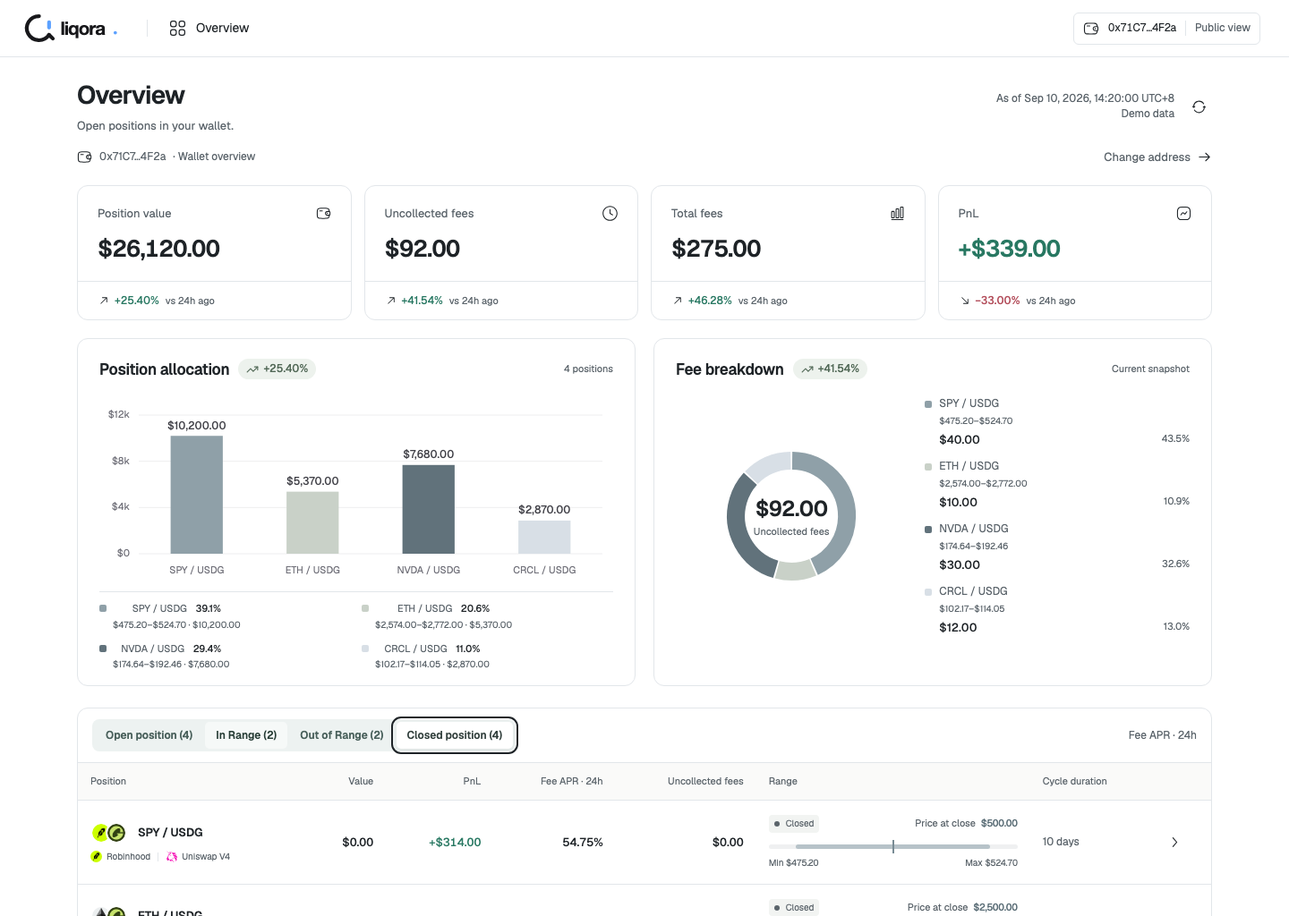
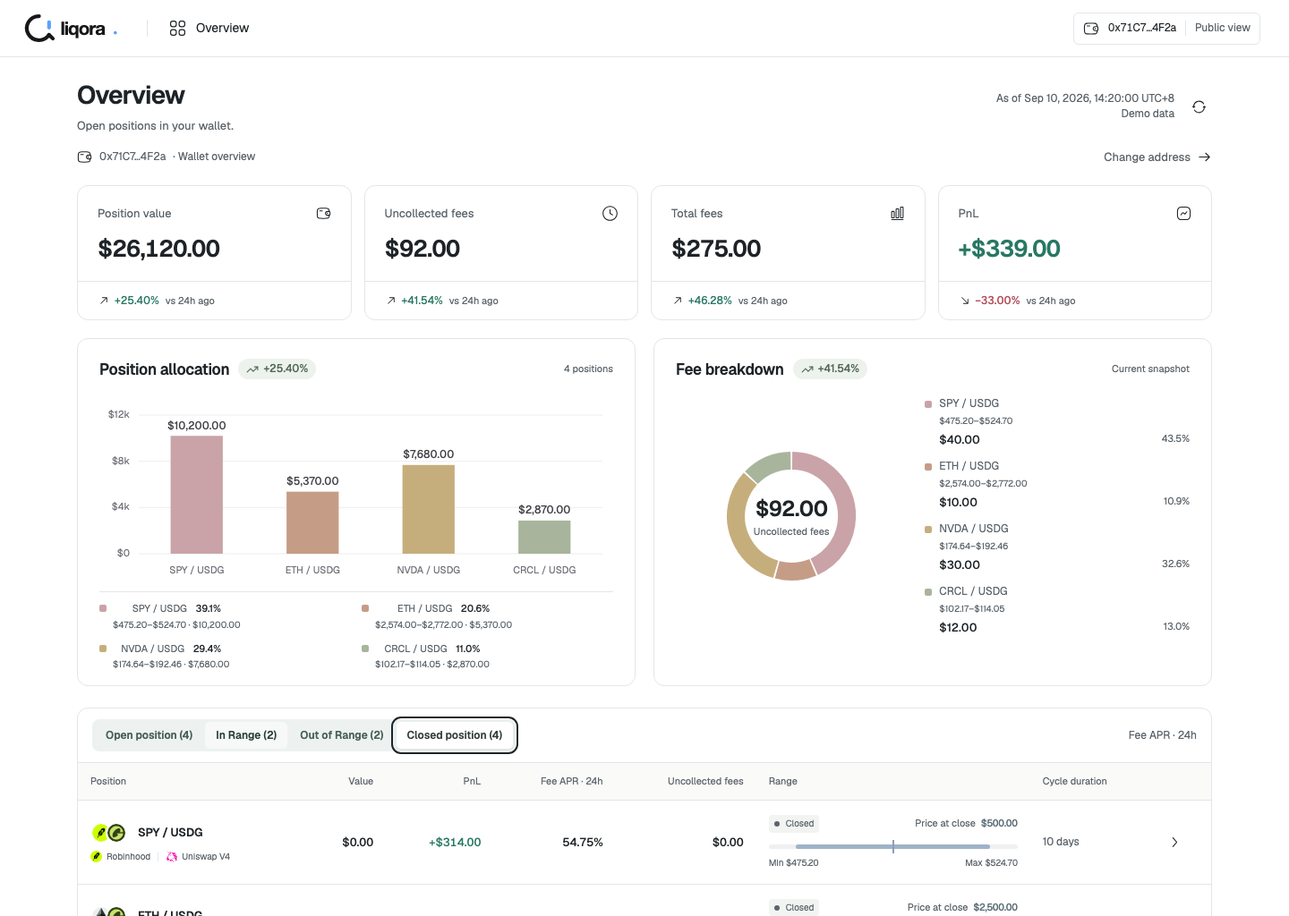
feat: replace LP APR trend with PnL chart and sync design palette

diff --git a/mockup/index.html b/mockup/index.html
@@ -7,7 +7,7 @@
 <link rel="icon" href="data:,">
 <style>
 @font-face{font-family:Geist;src:url('assets/geist-latin.woff2') format('woff2');font-weight:100 900;font-display:swap}
-:root{--bg:#fff;--paper:#fff;--shade:#f2f4f2;--ink:#1e2327;--muted:#5b646b;--line:#e2e6ea;--green:#287862;--mint:#edf7f2;--amber:#926427;--red:#b34e5b;--brand:#5ca1ff;--brand-ink:#5b6e77;--icon-ink:#1e2327;--chart-line:#8fa0a8;--chart-fill:#d8dfe6;--series-primary:#8fa0a8;--series-secondary:#c9d1c8;--series-third:#61727b;--series-fourth:#d8dfe6;--radius:12px;--sans:Geist,-apple-system,BlinkMacSystemFont,'Helvetica Neue',Arial,sans-serif;--num:var(--sans)}
+:root{--bg:#fff;--paper:#fff;--shade:#f2f4f2;--ink:#1e2327;--muted:#5b646b;--line:#e2e6ea;--green:#287862;--mint:#edf7f2;--amber:#926427;--red:#b34e5b;--brand:#5ca1ff;--brand-ink:#5b6e77;--icon-ink:#1e2327;--chart-line:#80a7a8;--chart-fill:#80a7a866;--series-primary:#c9a3a8;--series-secondary:#c59d87;--series-third:#c6ae7c;--series-fourth:#a8b59c;--radius:12px;--sans:Geist,-apple-system,BlinkMacSystemFont,'Helvetica Neue',Arial,sans-serif;--num:var(--sans)}
 *{box-sizing:border-box}body{margin:0;background:var(--bg);color:var(--ink);font:14px/1.4 var(--sans);min-width:1100px}button,input,select{font:inherit;color:inherit}button{cursor:pointer;border:0;background:none}button:disabled{cursor:not-allowed;opacity:.55}button,a,input,select,summary{outline-offset:4px}button:focus-visible,a:focus-visible,input:focus-visible,select:focus-visible,summary:focus-visible{outline:2px solid var(--ink)}a{color:inherit}h1,h2,h3,p{margin:0}h1{font-size:28px;line-height:1.3;letter-spacing:-.7px;font-weight:600}h2{font-size:20px;line-height:1.3;font-weight:600;letter-spacing:-.35px}h3{font-size:15px;font-weight:600}small,.small,.cell-sub{font-size:12px}.muted,.cell-sub{color:var(--muted)}.cell-sub{margin-top:5px;line-height:1.5}.num{font-variant-numeric:tabular-nums;letter-spacing:-.3px}.positive{color:var(--green)}.negative{color:var(--red)}.flex,.between{display:flex;align-items:center;gap:12px}.between{justify-content:space-between;gap:20px}.icon{width:17px;height:17px;fill:none;stroke:none;stroke-linecap:round;stroke-linejoin:round;vertical-align:middle;flex-shrink:0}.dot{width:6px;height:6px;border-radius:50%;background:currentColor;display:inline-block}.btn{display:inline-flex;align-items:center;justify-content:center;gap:8px;padding:9px 15px;min-height:40px;border:1px solid #b7bab6;background:var(--paper);border-radius:5px;font-weight:500;white-space:nowrap}.btn:hover{background:var(--shade);border-color:#858b87}.btn.primary{background:#303438;border-color:#303438;color:#fff}.btn.primary:hover{background:#44494c}.btn.quiet{background:transparent}.btn.small{font-size:12px;min-height:34px;padding:6px 11px}.text-btn{padding:6px 0;display:inline-flex;align-items:center;gap:7px;color:var(--muted);font-size:13px}.text-btn:hover{color:var(--ink);text-decoration:underline;text-underline-offset:4px}.tag{display:inline-flex;align-items:center;gap:7px;border-radius:4px;padding:4px 8px;font-size:12px;line-height:1.35;background:var(--shade);color:var(--muted);white-space:nowrap}.tag.green{color:var(--green);background:var(--mint)}.tag.amber{color:var(--amber);background:#efede8}.unit{font-size:12px;color:var(--muted);font-weight:400;letter-spacing:0;margin-left:6px}.badge-icon{color:var(--muted)}.badge-icon .icon{width:25px;height:25px}.rule{border:0;border-top:1px solid var(--line);margin:23px 0}.eyebrow{font-size:12px;color:var(--muted)}
 header{height:64px;border-bottom:1px solid var(--line);padding:0 32px 0 20px;display:flex;align-items:center;gap:28px;background:var(--bg)}.brand{display:flex;align-items:center;padding:0}.brand img{width:116px;height:39px;object-fit:contain}.breadcrumb{display:flex;align-items:center;gap:11px;border-left:1px solid var(--line);padding-left:24px;font-size:14px}.breadcrumb .icon{width:19px;height:19px}.header-right{margin-left:auto;display:flex;align-items:center;gap:24px}.network{display:flex;align-items:center;gap:7px;font-size:12px;color:var(--muted)}.wallet-btn{border:1px solid var(--line);border-radius:6px;min-height:36px;padding:6px 10px;display:flex;align-items:center;gap:10px;font-size:12px}.wallet-btn .icon{width:18px;height:18px}.wallet-btn #identity-label{color:var(--muted);border-left:1px solid var(--line);padding-left:10px}.logo{width:20px;height:20px;object-fit:contain;flex-shrink:0}.logo.round{border-radius:50%}.pair-logos{display:inline-flex;align-items:center;flex-shrink:0;padding-right:2px}.pair-logos .logo{width:24px;height:24px;border:2px solid white;border-radius:50%;background:white}.pair-logos .logo+.logo{margin-left:-7px}.pair-heading{display:flex;align-items:center;gap:10px}.pair-context{display:flex;align-items:center;gap:5px;font-size:10px;color:var(--muted);margin-top:8px;white-space:nowrap}.pair-context .logo{width:13px;height:13px}.context-divider{height:10px;width:1px;background:var(--line);margin:0 3px}.scope{display:flex;align-items:center;gap:10px;font-size:12px;color:var(--muted)}.scope .logo{width:18px;height:18px}.scope-bar{margin-bottom:16px;min-height:24px}
 main{max-width:1340px;margin:0 auto}main.home,main.query{padding:24px 36px 0}.heading{margin-bottom:10px}.heading h1{margin-bottom:8px}.heading-sub{color:var(--muted);font-size:13px}.time-stack{font-size:12px;color:var(--muted);text-align:right}.refresh-btn{width:30px;height:30px;padding:5px;color:var(--muted);border-radius:4px}.refresh-btn:hover{background:var(--shade)}.section{margin-top:32px}.section-head{margin-bottom:16px}.panel{background:var(--paper);border:1px solid var(--line);border-radius:0;overflow:hidden}.dashboard-grid{border:1px solid var(--line)}.summary-strip{display:grid;grid-template-columns:repeat(4,minmax(0,1fr))}.summary-item{padding:22px 22px 0;min-width:0;border-left:1px solid var(--line)}.summary-item:first-child{border-left:0}.summary-item .metric-label{color:var(--muted);display:flex;justify-content:space-between;gap:8px}.summary-item .metric-label .icon{color:#82828a}.summary-item .metric-note{min-height:43px;display:flex;align-items:center;margin:18px -22px 0;padding:10px 22px;border-top:1px solid var(--line);font-size:11px}.summary-item .metric-value{font-size:26px;font-weight:600;margin-top:12px}.charts{display:grid;grid-template-columns:1fr 1fr;border-top:1px solid var(--line)}.chart-panel{margin:0;padding:22px 24px 16px;min-width:0}.chart-panel+.chart-panel{border-left:1px solid var(--line)}.chart-title{display:flex;justify-content:space-between;align-items:center}.chart-title h2{font-size:17px;letter-spacing:-.25px}.chart-meta{font-size:11px;color:var(--muted)}.chart-plot{height:206px;margin-top:17px;position:relative}.chart-plot canvas{display:block;width:100%;height:100%}.fee-viz{display:grid;grid-template-columns:45% 1fr;align-items:center;gap:20px;margin-top:17px;min-height:272px}.donut{position:relative;width:100%;height:158px}.donut canvas{width:100%;height:100%}.donut-label{position:absolute;inset:0;display:flex;align-items:center;justify-content:center;flex-direction:column;pointer-events:none}.donut-label strong{font-size:24px;font-weight:600;letter-spacing:-.6px}.donut-label span{font-size:11px;color:var(--muted);margin-top:2px}.chart-legend{display:grid;gap:12px;font-size:12px}.legend-label{display:flex;align-items:center;gap:8px;color:var(--muted)}.legend-swatch{width:8px;height:8px;background:var(--swatch);border-radius:2px;display:inline-block}.legend-value{display:flex;justify-content:space-between;gap:8px;font-size:13px;font-weight:500;margin:5px 0 0 16px}.legend-value small{font-size:11px;color:var(--muted);font-weight:400}.chart-foot{border-top:1px solid var(--line);margin-top:14px;padding-top:11px;min-height:28px;color:var(--muted);font-size:11px}.chart-data{display:grid;grid-template-columns:1fr 1fr;gap:12px}.chart-data button{display:inline-flex;align-items:center;gap:7px;padding:0;color:var(--muted);font-size:11px}.chart-data button:hover{color:var(--ink);text-decoration:underline}.empty-chart{height:240px;display:flex;align-items:center;justify-content:center;color:var(--muted);font-size:13px}.positions-section{margin-top:24px}.positions-section .section-head{margin:0;padding:12px 16px;border-bottom:1px solid var(--line)}.positions-section h2{font-size:20px}
@@ -27,9 +27,9 @@ main.detail{padding:24px 36px 0}.detail-heading{margin-bottom:22px}.detail-headi
 .gas-token{display:inline-flex;align-items:center;justify-content:flex-end;gap:6px;font-size:11px}.gas-token .logo{width:16px;height:16px;border-radius:50%}.history-panel .gas-token{font-size:12px;white-space:nowrap}.performance-charts{display:grid;grid-template-columns:1fr 1fr;gap:24px;margin-top:24px}.performance-charts .chart-panel{padding:20px 24px 14px}.trend-reading{display:flex;align-items:baseline;gap:12px;margin-top:12px;min-height:32px}.trend-reading strong{font-size:22px;font-weight:550;letter-spacing:-.6px}.trend-plot{height:174px;margin-top:14px}.trend-empty{height:174px;display:flex;align-items:center;justify-content:center;font-size:12px;color:var(--muted);text-align:center;line-height:1.7}.trend-data{margin-top:10px;border-top:1px solid var(--line);padding-top:9px;font-size:11px;color:var(--muted)}.trend-data summary{cursor:pointer;width:fit-content;min-height:24px}.trend-data table{width:100%;border-collapse:collapse;margin-top:8px;text-align:right}.trend-data th:first-child,.trend-data td:first-child{text-align:left}.trend-data th,.trend-data td{padding:6px 0;border-bottom:1px solid var(--line);font-weight:400}.trend-data .num{color:var(--ink)}
 @media(max-width:1250px){.summary-strip,.detail-summary{gap:10px}.performance-charts{gap:20px}.performance-charts .chart-panel{padding:18px}.trend-reading strong{font-size:20px}.summary-item .metric-note,.detail-metric .metric-note{gap:5px}.summary-item .change,.detail-metric .change{font-size:11px}}
 
-/* Muted interface ink; separate hues distinguish LPs, one blue traces a single metric. */
-.icon,.detail-summary .metric-label>.icon,.summary-item .metric-label>.icon{color:var(--icon-ink)}.btn.primary .icon{color:inherit}.range-view .tag.green{color:var(--brand-ink);background:#edf0f2}.range-zone,.outside .range-zone{background:#b7c3c9}.range-marker,.outside .range-marker{background:#788b95}.range-view .pool-price strong,.range-view.outside .pool-price strong{color:var(--brand-ink)}
-.detail-range .fancy-range{padding:18px 18px 12px;border:1px solid #e2e6ea;border-radius:10px;background:#f7f8f7}.fancy-range .range-top{margin-bottom:48px}.fancy-range .pool-price strong{font-size:18px}.detail-range .fancy-range .range-track{height:12px;background:#e9edef;border:0;border-radius:8px;margin:0 0 18px}.detail-range .fancy-range .range-zone,.detail-range .fancy-range.outside .range-zone{height:12px;top:0;border:0;border-radius:8px;background:#b7c3c9}.fancy-range .range-zone::before,.fancy-range .range-zone::after{content:"";position:absolute;top:-4px;bottom:-4px;width:1px;background:#8fa0a8}.fancy-range .range-zone::before{left:0}.fancy-range .range-zone::after{right:0}.detail-range .fancy-range .range-marker,.detail-range .fancy-range.outside .range-marker{height:32px;top:-10px;width:1px;background:#788b95;box-shadow:none}.fancy-range .range-marker::after{content:"";position:absolute;width:9px;height:9px;border-radius:50%;background:white;border:2px solid #788b95;top:11px;left:-4px;box-shadow:0 0 0 3px #f7f8f7b3}.fancy-range .live-price,.fancy-range.outside .live-price{top:-34px;background:#edf0f2;color:#5b6e77;border:1px solid #d8dfe6;border-radius:5px;padding:3px 8px;font-size:11px}.detail-range .fancy-range .range-labels{position:relative;display:block;height:34px;font-size:10px}.fancy-range .range-labels>span{position:absolute;transform:translateX(-50%);text-align:center;white-space:nowrap}.fancy-range .range-labels .num{display:block;font-size:12px;color:#5b646b;margin-top:2px}
+/* Repository palettes distinguish data; semantic green/red still mean state. */
+.icon,.detail-summary .metric-label>.icon,.summary-item .metric-label>.icon{color:var(--icon-ink)}.btn.primary .icon{color:inherit}.range-view .tag.green{color:var(--brand-ink);background:#edf0f2}.range-zone,.outside .range-zone{background:#9eb3c7}.range-marker,.outside .range-marker{background:#8f9db7}.range-view .pool-price strong,.range-view.outside .pool-price strong{color:var(--brand-ink)}
+.detail-range .fancy-range{padding:18px 18px 12px;border:1px solid #e2e6ea;border-radius:10px;background:#f7f8f7}.fancy-range .range-top{margin-bottom:48px}.fancy-range .pool-price strong{font-size:18px}.detail-range .fancy-range .range-track{height:12px;background:#e9edef;border:0;border-radius:8px;margin:0 0 18px}.detail-range .fancy-range .range-zone,.detail-range .fancy-range.outside .range-zone{height:12px;top:0;border:0;border-radius:8px;background:#9eb3c7}.fancy-range .range-zone::before,.fancy-range .range-zone::after{content:"";position:absolute;top:-4px;bottom:-4px;width:1px;background:#8f9db7}.fancy-range .range-zone::before{left:0}.fancy-range .range-zone::after{right:0}.detail-range .fancy-range .range-marker,.detail-range .fancy-range.outside .range-marker{height:32px;top:-10px;width:1px;background:#8f9db7;box-shadow:none}.fancy-range .range-marker::after{content:"";position:absolute;width:9px;height:9px;border-radius:50%;background:white;border:2px solid #8f9db7;top:11px;left:-4px;box-shadow:0 0 0 3px #f7f8f7b3}.fancy-range .live-price,.fancy-range.outside .live-price{top:-34px;background:#edf0f2;color:#5b6e77;border:1px solid #9eb3c7;border-radius:5px;padding:3px 8px;font-size:11px}.detail-range .fancy-range .range-labels{position:relative;display:block;height:34px;font-size:10px}.fancy-range .range-labels>span{position:absolute;transform:translateX(-50%);text-align:center;white-space:nowrap}.fancy-range .range-labels .num{display:block;font-size:12px;color:#5b646b;margin-top:2px}
 .chart-heading{display:flex;align-items:center;gap:10px;flex-wrap:wrap}.chart-badge{display:inline-flex;align-items:center;gap:5px;padding:3px 9px;border-radius:999px;font-size:12px;font-weight:500;line-height:1.4;white-space:nowrap;background:#edf2ed;color:#526957}.chart-badge.negative{background:#fbeef0;color:#b34e5b}.chart-badge.muted{background:#f1f1f2;color:#5b646b}.chart-badge .icon{width:14px;height:14px;color:inherit}.chart-title{gap:12px}.chart-meta{white-space:nowrap}
 .token-table{width:100%;table-layout:fixed;border-collapse:collapse;text-align:right;font-size:12px}.token-table .metric-col{width:32%}.token-table .total-col{width:19%}.token-table th,.token-table td{padding:15px 5px;border-bottom:1px solid var(--line);vertical-align:top}.token-table thead th{font-size:11px;font-weight:400;color:var(--muted);padding-top:17px;padding-bottom:12px}.token-table thead th span{display:inline-flex;align-items:center;gap:6px}.token-table .logo{width:16px;height:16px;border-radius:50%}.token-table th:first-child{padding-left:0;text-align:left}.token-table th:last-child,.token-table td:last-child{padding-right:0}.token-table tbody th{font-size:12px;font-weight:500}.token-table td{white-space:nowrap}.token-table .token-total{font-weight:600;color:var(--ink)}.token-table small{display:block;margin-top:5px;font-size:10px;font-weight:400;color:var(--muted);line-height:1.45}.token-table tbody th small{padding-right:4px}.token-table tbody tr:first-child .token-total{font-size:13px}.token-table tbody tr:hover{background:#f7f8f766}.token-table+.statement-row{margin-top:4px}@media(max-width:1250px){.statement-body{padding-left:18px;padding-right:18px}.token-table{font-size:11px}.token-table .metric-col{width:30%}.token-table .total-col{width:19%}.token-table th,.token-table td{padding-left:4px;padding-right:4px}.token-table tbody th{font-size:11px}.token-table tbody tr:first-child .token-total{font-size:12px}}
 </style>
@@ -173,43 +173,47 @@ window.addEventListener('resize',drawCharts);
 document.fonts.ready.then(drawCharts);
 // ponytail: explicit demo snapshots, not reconstructed chain history; replace with indexed snapshots in production.
 const valueHistory=[[10300,10335,10280,10310,10190,10260,10200],[5000,5990,5980,5400,5370],[7650,7620,7660,7700,7650,7690,7680],[2880,2900,2890,2850,2830,2860,2870]];
-const aprHistory={'1h':[73,80.3,65.7,91.25,98.55,76.65,87.6],'24h':[32.85,34.31,33.58,37.96,38.69,35.77,36.5],'7d':[18.25,18.77,19.3,20.07,19.81,20.59,20.857142857]};
+// Fixed cumulative PnL samples in USD; the final point uses the same accounting as the summary.
+const pnlHistory=[[385,422,369,402,284,357,295],[-2,-12,-19,-70,-104],[216,188,230,272,224,266,251],[-95,-74,-82,-121,-139,-107,-103],[302,308,305,312,309,316,314],[-90,-83,-77,-69,-62,-54,-56],[690,701,708,719,725,734,732],[-85,-83,-81,-78,-77,-73,-75]];
 function trendPoints(p,kind){
-  const index=positions.indexOf(p),hours=p.hours>=24?[24,20,16,12,8,4,0]:[8,6,4,2,0];
-  const rate=feeMetrics(p).rate;
-  if(kind==='apr'&&rate===undefined)return [];
-  if(p.closedAt)return hours.map((ago,i)=>({ago,value:kind==='value'?(i===hours.length-1?0:p.withdraw):rate}));
-  const values=kind==='value'?valueHistory[index]:index===0?aprHistory[state.period]:index===1?[undefined,12.5,8,3,0]:hours.map((_,i)=>p.previous.apr[state.period]+(rate-p.previous.apr[state.period])*i/(hours.length-1));
-  return hours.map((ago,i)=>({ago,value:i===hours.length-1?(kind==='value'?p.value:rate):values[i]}));
+  const hours=p.hours>=24?[24,20,16,12,8,4,0]:[8,6,4,2,0];
+  const values=kind==='value'?(p.closedAt?hours.map(()=>p.withdraw):valueHistory[positions.indexOf(p)]):pnlHistory[allPositions.indexOf(p)];
+  return hours.map((ago,i)=>({ago,value:kind==='pnl'&&missing(p)?undefined:i===hours.length-1?(kind==='value'?p.value:shownProfit(p)):values[i]===undefined?undefined:values[i]-(kind==='pnl'&&adjusted()?prep(p):0)}));
 }
 function trendTime(ago,p=allPositions[state.index]){return p.closedAt?new Date(new Date(p.closedAt).getTime()-ago*3600000).toLocaleString('en-US',{timeZone:'Asia/Shanghai',month:'short',day:'numeric',hour:'2-digit',minute:'2-digit',hour12:false}):ago===0?'Now':`${ago>14?'Yesterday ':''}${String((14-ago+24)%24).padStart(2,'0')}:20`}
-function chartBadge(current,previous,context,points=false){
+function chartBadge(current,previous,context,currency=false){
   if(!Number.isFinite(current)||!Number.isFinite(previous))return '';
   const delta=current-previous;
-  if(!points&&previous===0&&delta!==0)return '';
-  const value=points?delta:previous===0?0:delta/Math.abs(previous)*100;
-  const label=signed(value)+(points?' pp':'%'),tone=delta>0?'positive':delta<0?'negative':'muted';
+  if(!currency&&previous===0&&delta!==0)return '';
+  const value=currency?delta:previous===0?0:delta/Math.abs(previous)*100;
+  const label=currency?signedAmount(value):signed(value)+'%',tone=delta>0?'positive':delta<0?'negative':'muted';
   return `<span class="chart-badge ${tone}" title="${esc(context)}" aria-label="${esc(label+' · '+context)}">${delta?icon(delta>0?'rise':'fall'):''}${label}</span>`;
 }
 function performanceCharts(p){
   const span=p.closedAt?'24h ending at close':p.hours>=24?'Past 24h':`Since opening · ${p.hours}h`;
-  return `<section class="performance-charts" aria-label="Position performance charts">${['value','apr'].map(kind=>{const points=trendPoints(p,kind),valid=points.filter(p=>p.value!==undefined),first=valid[0],last=valid.at(-1),value=last?.value;
-    const format=n=>kind==='value'?amount(n):money(n)+'%';
-    return `<figure class="chart-panel"><div class="chart-title"><div class="chart-heading"><h2>${kind==='value'?'Position value':'Fee APR'} trend</h2>${chartBadge(value,first?.value,'Change over available chart history',kind==='apr')}</div><span class="chart-meta">${span}</span></div><div class="trend-reading"><strong class="num">${value===undefined?'—':format(value)}</strong></div>${valid.length>1?`<div class="chart-plot trend-plot"><canvas id="${kind}-trend" aria-hidden="true"></canvas></div>`:`<div class="trend-empty">Insufficient history for ${state.period} APR.<br>Try a shorter window.</div>`}${points.length?`<details class="trend-data"><summary>View data</summary><table><thead><tr><th>Snapshot · UTC+8</th><th>${kind==='value'?'Position value':'Fee APR · '+state.period}</th></tr></thead><tbody>${points.map(point=>`<tr><td>${trendTime(point.ago,p)}</td><td class="num">${point.value===undefined?'—':format(point.value)}</td></tr>`).join('')}</tbody></table></details>`:''}</figure>`}).join('')}</section>`;
+  return `<section class="performance-charts" aria-label="Position performance charts">${['value','pnl'].map(kind=>{const points=trendPoints(p,kind),valid=points.filter(p=>p.value!==undefined),first=valid[0],last=valid.at(-1),value=last?.value;
+    const format=n=>kind==='value'?amount(n):signedAmount(n);
+    return `<figure class="chart-panel"><div class="chart-title"><div class="chart-heading"><h2>${kind==='value'?'Position value':adjusted()?'Adjusted PnL':'PnL'} trend</h2>${chartBadge(value,first?.value,'Change over available chart history',kind==='pnl')}</div><span class="chart-meta">${span}</span></div><div class="trend-reading"><strong class="num">${value===undefined?'—':format(value)}</strong></div>${valid.length>1?`<div class="chart-plot trend-plot"><canvas id="${kind}-trend" aria-hidden="true"></canvas></div>`:`<div class="trend-empty">Insufficient history. Historical PnL requires complete prices and accounting data.</div>`}${points.length?`<details class="trend-data"><summary>View data</summary><table><caption>Sample history</caption><thead><tr><th>Snapshot · UTC+8</th><th>${kind==='value'?'Position value':adjusted()?'Adjusted PnL':'PnL'}</th></tr></thead><tbody>${points.map(point=>`<tr><td>${trendTime(point.ago,p)}</td><td class="num">${point.value===undefined?'—':format(point.value)}</td></tr>`).join('')}</tbody></table></details>`:''}</figure>`}).join('')}</section>`;
 }
 function drawTrends(){
-  for(const kind of ['value','apr']){
+  for(const kind of ['value','pnl']){
     const canvas=document.querySelector('#'+kind+'-trend');if(!canvas)continue;
     const points=trendPoints(allPositions[state.index],kind),valid=points.filter(p=>p.value!==undefined);
     if(valid.length<2)continue;
     const {ctx,width,height}=chartContext(canvas),left=56,right=18,top=12,bottom=25,plotW=width-left-right,plotH=height-top-bottom;
-    const values=valid.map(p=>p.value),lo=Math.min(...values),hi=Math.max(...values),padding=Math.max((hi-lo)*.2,kind==='value'?10:1),min=Math.max(0,lo-padding),max=hi+padding;
+    const values=valid.map(p=>p.value),lo=Math.min(...values),hi=Math.max(...values),padding=Math.max((hi-lo)*.2,10),min=kind==='value'?Math.max(0,lo-padding):Math.min(0,lo-padding),max=kind==='value'?hi+padding:Math.max(0,hi+padding);
     const x=ago=>left+(points[0].ago-ago)/points[0].ago*plotW,y=v=>top+(max-v)/(max-min)*plotH;
     ctx.font='10px Geist, sans-serif';ctx.textBaseline='middle';ctx.lineWidth=1;
-    for(let i=0;i<4;i++){const value=max-(max-min)*i/3,py=y(value);ctx.strokeStyle='#edf0f5';ctx.beginPath();ctx.moveTo(left,py);ctx.lineTo(width-right,py);ctx.stroke();ctx.fillStyle='#71717a';ctx.textAlign='right';ctx.fillText(kind==='value'?'$'+new Intl.NumberFormat('en-US',{maximumFractionDigits:0}).format(value):value.toFixed(1)+'%',left-9,py)}
+    for(let i=0;i<4;i++){const value=max-(max-min)*i/3,py=y(value);ctx.strokeStyle='#edf0f5';ctx.beginPath();ctx.moveTo(left,py);ctx.lineTo(width-right,py);ctx.stroke();ctx.fillStyle='#71717a';ctx.textAlign='right';ctx.fillText('$'+new Intl.NumberFormat('en-US',{maximumFractionDigits:0}).format(Math.round(value)||0),left-9,py)}
     ctx.textAlign='left';ctx.fillText(points[0].ago+'h ago',left,height-7);ctx.textAlign='center';ctx.fillText(points[0].ago/2+'h ago',left+plotW/2,height-7);ctx.textAlign='right';ctx.fillText(allPositions[state.index].closedAt?'Closed':'Now',width-right,height-7);
-    ctx.beginPath();valid.forEach((point,i)=>i?ctx.lineTo(x(point.ago),y(point.value)):ctx.moveTo(x(point.ago),y(point.value)));ctx.lineTo(x(valid.at(-1).ago),top+plotH);ctx.lineTo(x(valid[0].ago),top+plotH);ctx.closePath();const fill=ctx.createLinearGradient(0,top,0,top+plotH);fill.addColorStop(0,getComputedStyle(document.documentElement).getPropertyValue('--chart-fill').trim());fill.addColorStop(1,'#ffffff00');ctx.fillStyle=fill;ctx.fill();
-    ctx.beginPath();valid.forEach((point,i)=>i?ctx.lineTo(x(point.ago),y(point.value)):ctx.moveTo(x(point.ago),y(point.value)));ctx.strokeStyle=getComputedStyle(document.documentElement).getPropertyValue('--chart-line').trim();ctx.lineWidth=2.25;ctx.lineJoin='round';ctx.stroke();
+    const baseline=kind==='pnl'?y(0):top+plotH;
+    if(kind==='pnl'){ctx.beginPath();ctx.moveTo(left,baseline);ctx.lineTo(width-right,baseline);ctx.strokeStyle='#a1a1aa';ctx.stroke();}
+    const segments=[];
+    for(const point of points){if(point.value===undefined)segments.push([]);else{if(!segments.length)segments.push([]);segments.at(-1).push(point);}}
+    for(const segment of segments.filter(s=>s.length)){
+      ctx.beginPath();segment.forEach((point,i)=>i?ctx.lineTo(x(point.ago),y(point.value)):ctx.moveTo(x(point.ago),y(point.value)));ctx.lineTo(x(segment.at(-1).ago),baseline);ctx.lineTo(x(segment[0].ago),baseline);ctx.closePath();const fill=ctx.createLinearGradient(0,top,0,top+plotH);fill.addColorStop(0,getComputedStyle(document.documentElement).getPropertyValue('--chart-fill').trim());fill.addColorStop(1,'#ffffff00');ctx.fillStyle=fill;ctx.fill();
+      ctx.beginPath();segment.forEach((point,i)=>i?ctx.lineTo(x(point.ago),y(point.value)):ctx.moveTo(x(point.ago),y(point.value)));ctx.strokeStyle=getComputedStyle(document.documentElement).getPropertyValue('--chart-line').trim();ctx.lineWidth=2.25;ctx.lineJoin='round';ctx.stroke();
+    }
     const last=valid.at(-1);ctx.beginPath();ctx.arc(x(last.ago),y(last.value),4,0,Math.PI*2);ctx.fillStyle='white';ctx.fill();ctx.stroke();
   }
 }
@@ -283,7 +287,7 @@ function activityRows(p){
   {time:'8 hours ago',date:'Sep 10, 2026 · 06:20 UTC+8',type:'Deposit',symbol:'wallet',qty:[0,-5050.505051],values:[0,5000],value:-5000,gas:1,hash:'44'}
 ]}
 // Six colors repeat for longer histories; the hash identifies the transaction.
-const transactionColors=[['#3674B5','#FFFFFF'],['#E9BE5F','#282823'],['#595C56','#FFFFFF'],['#F5F0CD','#282823'],['#578FCA','#18232D'],['#282823','#FFFFFF']];
+const transactionColors=['#E8E1D9','#C9D6E2','#C7CEC4','#D7D2E1','#EADBD6','#F3EBC7'].map(bg=>[bg,'#3F4140']);
 const transactionHashes=[...new Set([...allPositions.flatMap(activityRows).map(row=>row.hash),...allPositions.map(p=>preparationHash(p).slice(2,4))])].sort();
 function displayedActivityRows(p){
   const rows=activityRows(p),quantity=state.alloc[allPositions.indexOf(p)];

diff --git a/mockup/README.md b/mockup/README.md
@@ -1,10 +1,10 @@
 # Liqora 桌面 Mockup
 
-> 当前 HTML 为 v0.21，对应 PRD v1.17／UI v0.21，已同步关联 Swap 活动。按用户提供的 [Dashboard-2 截图](designs/dashboard-2-reference.png)更新首屏、Geist 字体、Reicon 图标和品牌素材。
+> 当前 HTML 为 v0.22，对应 PRD v1.18／UI v0.22，已同步 PnL 趋势与关联 Swap 活动。按用户提供的 [Dashboard-2 截图](designs/dashboard-2-reference.png)更新首屏、Geist 字体、Reicon 图标和品牌素材。
 
 当前文档见 [UI 需求](../docs/current-lp-ui-requirements.md) 和 [PRD](https://github.com/JIAMING-LI/liqora-docs/blob/main/prd/current-lp-performance-prd.md)。保留原生 HTML／CSS／JavaScript，无需安装项目依赖；从本目录运行 `python3 -m http.server 8767 --bind 127.0.0.1`，访问 `http://127.0.0.1:8767/`。使用 HTTP 预览可正常加载本地图标文件；建议宽度 1440px，最小桌面宽度 1100px。
 
-两个页面：当前 LP 总览和单页 LP 详情。总览依次展示 Position value、Uncollected fees、Total fees、PnL 及较 24h 前变化、仓位价值柱图、各 LP 当前未领取手续费环图、逐行 LP 列表；总览图表固定使用 Open 数据，列表由状态 Tab 筛选，图下入口及列表整行都可进入对应详情。详情按新参考采用价值／Total fees／APR／PnL 四项指标及前日变化、仓位余额／APR 趋势图、费用与资产区间双栏、底部活动。加入手续费汇总、投入盈亏比、窗口日均；首页 APR 固定 24h；详情可选 1h／24h／7d／30d，返回不改变首页的 24h。活动按截图五列展示，双币数量直接可见；区间用低饱和蓝细带、端点线、圆点当前价指针和对齐的上下限。全部可见文案、提示、错误、验证及费用关联界面均为英文。
+两个页面：当前 LP 总览和单页 LP 详情。总览依次展示 Position value、Uncollected fees、Total fees、PnL 及较 24h 前变化、仓位价值柱图、各 LP 当前未领取手续费环图、逐行 LP 列表；总览图表固定使用 Open 数据，列表由状态 Tab 筛选，图下入口及列表整行都可进入对应详情。详情按新参考采用价值／Total fees／APR／PnL 四项指标及前日变化、仓位余额／PnL 趋势图、费用与资产区间双栏、底部活动。加入手续费汇总、投入盈亏比、窗口日均；首页 APR 固定 24h；详情可选 1h／24h／7d／30d，返回不改变首页的 24h。活动按截图五列展示，双币数量直接可见；区间用低饱和蓝细带、端点线、圆点当前价指针和对齐的上下限。全部可见文案、提示、错误、验证及费用关联界面均为英文。
 
 演示步骤：打开 NFT #204801 → `Link preparation costs` → `Simulate verification` → `Use sample hash` → `Parse transaction` → 输入 6 SPY → `Save allocation`。所得 10 SPY、兑换费 30 USD、Gas 2 USD，分配后费用 19.20 USD，盈亏由 295 变为 275.80 USD，投入盈亏比由 2.95% 变为 2.76%。手续费汇总仍为 100 USD，24h APR 仍为 36.50%。修改、重复保存、全部剩余、跨四个 LP 的额度限制及撤销可演示；总览和详情保持同一成本口径，断开验证恢复公开 LP 盈亏。
 
@@ -12,7 +12,7 @@
 
 全部为构造数据。前日钱包快照为价值 $20,830、PnL $506、费用 $188、未领取 $65，当时第二个 LP 尚未创建；四项变化是快照金额变化，包含当前 LP 集合变化。当前示例 SPY = 500 USD、USDG = 0.99 USD；活动金额使用各自构造的历史估值。详情前日快照使用首个 LP 价值 $10,300、未领取 $30、PnL $385；APR 的前日同窗口值为 1h 73%、24h 32.85%、7d 18.25%，第二个 LP 尚未存在。期间费用的双币估值按构造的各半分布，首个 LP 平均本金按两币各 $5,000；这些是演示拆分。活动 Gas 原生数量使用各笔构造历史 ETH 价格 $2,500 换算，不是实时行情。哈希、合约和 poolId 也是示例，不对应真实区块浏览器记录。模拟验证、哈希解析、60 秒刷新与保存仅演示交互，不调用钱包、RPC 或服务端。保存仅存在当前页面会话，重载清空；真实产品的数据库恢复、签名鉴权、跨设备权限及费用去重仍需实现和验收。原型仅支持示例 hash，不是通用交易解析器。
 
-- [图表配色板](palette.html) · [配色板截图](palette.jpg)
+- [图表色卡](../chart-palette.svg) · [标签色卡](../tag-palette.svg)
 - [总览截图](overview.jpg)
 - [详情截图](detail.jpg)
 - [详情趋势图](trends.jpg)
@@ -20,13 +20,13 @@
 - [价格区间（v0.9 历史配色）](range.jpg)
 - [费用关联截图](allocation.jpg)
 
-趋势横轴为过去 24h（第二个 LP 从建仓起 8h），APR 在每个采样点按当前所选窗口滚动计算。View data 展示固定历史样例，末值复用当前摘要；首个 LP 的 24h 余额差为 −$100，APR 从 32.85% 到 36.50%，增加 3.65 pp。缺窗口不画曲线，第二个 LP 的创建时 1h APR 不可用。余额走势包含加减仓，不作为投资回报。
+趋势横轴为过去 24h（第二个 LP 从建仓起 8h），PnL 为各采样时点从建仓累计的美元盈亏，独立于 APR 窗口。View data 展示固定构造样例，Open 末值使用当前摘要的同一公式；首个 LP 的余额差为 −$100，PnL 从 $385 到 $295，变化 −$90。关联建仓前准备成本 $19.20 后，Adjusted PnL 从 $365.80 到 $275.80；断开验证恢复公开口径。负值支持零线，缺数据保留断点。Closed 曲线止于平仓；余额走势包含加减仓，不作为投资回报。
 
 运行 `node mockup/check.mjs --logic-only` 可检查图表合计、占比、零值／空态、页面顺序、费用口径与 APR 一致性，不打开浏览器。
 
 已安装 `agent-browser` 和 Python 3 时，从设计仓库根目录运行 `node mockup/check.mjs`；脚本自动启动并关闭临时本地 HTTP 服务。检查英文文案、盈亏与手续费汇总、比值、APR／日均、窗口保留、权限、哈希、额度、重复保存／修改／撤销、错误状态及桌面宽度。加 `--screenshots` 更新上述截图。该检查仅验证原型，不代表 PRD 的链上接入或产品验收通过。
 
-品牌使用用户提供的 `assets/liqora-logo-v2.svg`，金额统一显示 `$`。区间上下限乘 USDG 的美元价格后再展示，列表价值／未领取／PnL 仅显示主数值且隐藏 NFT 编号；双币 Logo、数量及估值在详情账单展示。图标来自 Reicon 1.2.4 Outline，使用原始路径组成的本地 SVG sprite，保留 MIT 许可。Geist 字体与 SPY／USDG／Robinhood Chain／Uniswap Logo 均本地托管；[素材与来源](assets/README.md)列出官方链接。卡片试用 12px 轻圆角，图标用黑色 #1E2327，单系列曲线用烟灰蓝 #8FA0A8 与雾蓝 #D8DFE6 渐变面积，多 LP 图表用烟灰蓝 #8FA0A8 与苔绿 #C9D1C8；LP gas 与活动增加 ETH 原生数量／图标。没有新增项目依赖，图表使用 Canvas 并在旁边提供等价文字数值。[原型检查](../README.md#验证)记录同屏参考对照与交互验证。
+品牌使用用户提供的 `assets/liqora-logo-v2.svg`，金额统一显示 `$`。区间上下限乘 USDG 的美元价格后再展示，列表价值／未领取／PnL 仅显示主数值且隐藏 NFT 编号；双币 Logo、数量及估值在详情账单展示。图标来自 Reicon 1.2.4 Outline，使用原始路径组成的本地 SVG sprite，保留 MIT 许可。Geist 字体与 SPY／USDG／Robinhood Chain／Uniswap Logo 均本地托管；[素材与来源](assets/README.md)列出官方链接。图表与区间使用仓库根目录的[图表色卡](../chart-palette.svg)，交易哈希标签使用[标签色卡](../tag-palette.svg)；语义性的涨跌和状态色保持独立。LP gas 与活动增加 ETH 原生数量／图标。没有新增项目依赖，图表使用 Canvas 并在旁边提供等价文字数值。[原型检查](../README.md#验证)记录同屏参考对照与交互验证。
 
 ### v0.14 简化演示
 
@@ -75,8 +75,14 @@
 
 ### v0.20 同交易颜色标签
 
-Recent activity 每行左上角显示可点击的 Txn 缩略哈希标签，同 transaction 的 Withdraw／Collect／Deposit 共享底色。按两张用户色卡合并相近黄、米色后保留六色，按完整示例 hash 分配并循环；保留 hash 文本识别，深浅底分别搭配通过 4.5:1 对比度检查的文字色。
+Recent activity 每行左上角显示可点击的 Txn 缩略哈希标签，同 transaction 的 Withdraw／Collect／Deposit 共享底色。从仓库根目录[标签色卡](../tag-palette.svg)选取六种浅色，按完整示例 hash 分配并循环；保留 hash 文本识别，统一搭配通过 4.5:1 对比度检查的深色文字。
 
 ### v0.21 已关联的 Swap 活动
 
 保存准备费用关联后，当前／历史 LP 的 Recent activity 增加私有 Swap 行和 Linked preparation 标记，展示源交易支付／所得、原费用及当前 LP 分摊成本。示例源交易统一为 Jul 1, 2026 · 13:50 UTC+8，早于所有示例 LP，按原时间放在 LP 操作之后；源哈希沿用六色标签。修改更新、重复保存不重复生成，撤销移除、断开验证隐藏、重新验证恢复。活动展示与原 LP 记账数据分开，Swap 金额不加入投入、收入、Total fees 或基础 PnL。
+
+### v0.22 PnL 趋势
+
+详情右图从 Fee APR trend 改为 PnL trend，保留顶部 Fee APR 与期间指标。PnL 图展示累计美元盈亏，徽标为首末美元差；APR 窗口切换不改图，费用口径切换同步重绘。正值、负值、已平仓与缺历史场景均有检查；历史版本中的 APR 曲线说明仅记录当时行为。
+
+[负值 PnL 详情](negative-pnl.jpg)

diff --git a/docs/revert-reference-review.md b/docs/revert-reference-review.md
@@ -2,7 +2,7 @@
 
 > 观察日期：2026-09-10；公开页面，无钱包连接。<br>
 > 范围：用户提供的账户页、Robinhood Uniswap V4 #1889893 详情及其基准选择；不验证实际链上计算正确性。<br>
-> 本观察最初用于 v1.8 / v0.3；当前文档：[PRD v1.17](https://github.com/JIAMING-LI/liqora-docs/blob/main/prd/current-lp-performance-prd.md)、[UI 需求 v0.21](current-lp-ui-requirements.md)。
+> 本观察最初用于 v1.8 / v0.3；当前文档：[PRD v1.18](https://github.com/JIAMING-LI/liqora-docs/blob/main/prd/current-lp-performance-prd.md)、[UI 需求 v0.22](current-lp-ui-requirements.md)。
 
 ## 1. 账户页：紧凑比较有效
 

diff --git a/README.md b/README.md
@@ -1,6 +1,6 @@
 # Liqora Design
 
-Liqora 的 UI 需求、交互原型、设计参考、配色与素材。当前原型与 UI 需求均为 v0.21，业务基线为 PRD v1.17。
+Liqora 的 UI 需求、交互原型、设计参考、配色与素材。当前原型与 UI 需求均为 v0.22，业务基线为 PRD v1.18。
 
 - [UI 需求](docs/current-lp-ui-requirements.md)
 - [交互原型](mockup/index.html) · [原型说明](mockup/README.md)
